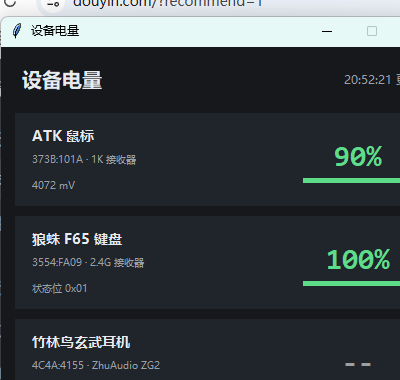
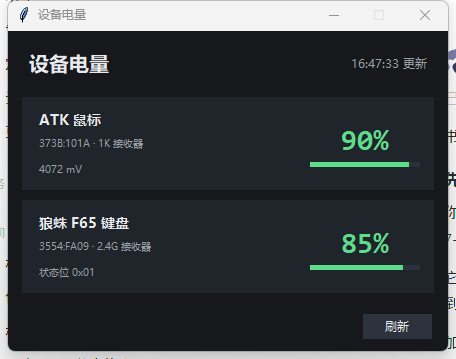
移除玄武耳机（设备无电量通道）；面板改为两张卡片；新增 --show 启动参数

diff --git a/tray_app.py b/tray_app.py
@@ -149,8 +149,30 @@ TRAY = [
     # (uID, key, 名称, 是否带底板)
     (1, "mouse", "ATK 鼠标", False),
     (2, "keyboard", "狼蛛 F65 键盘", True),
-    (3, "headset", "竹林鸟玄武耳机", True),
 ]
+
+
+def instance_running() -> bool:
+    """托盘是否已经在跑（用 OpenMutex，不会创建锁）。"""
+    SYNCHRONIZE = 0x00100000
+    KERNEL32.OpenMutexW.restype = wintypes.HANDLE
+    KERNEL32.OpenMutexW.argtypes = [wintypes.DWORD, wintypes.BOOL, wintypes.LPCWSTR]
+    h = KERNEL32.OpenMutexW(SYNCHRONIZE, False, MUTEX_NAME)
+    if h:
+        KERNEL32.CloseHandle(h)
+        return True
+    return False
+
+
+def spawn_panel() -> None:
+    """另起进程打开面板（打包后是同一个 exe 带 --panel）。"""
+    import subprocess
+    if FROZEN:
+        cmd = [sys.executable, "--panel"]
+    else:
+        cmd = [sys.executable.replace("python.exe", "pythonw.exe"),
+               os.path.join(BASE_DIR, "panel.py")]
+    subprocess.Popen(cmd, cwd=BASE_DIR, creationflags=0x00000008)
 
 
 class TrayApp:
@@ -163,6 +185,7 @@ class TrayApp:
         self.last_good = {}   # key -> (level, charging, voltage, 时间字符串)
         self.icons_added = False
         self.last_update = ""
+        self.show_panel_on_start = False
         self.taskbar_msg = USER32.RegisterWindowMessageW("TaskbarCreated")
 
     def log(self, msg: str) -> None:
@@ -268,10 +291,8 @@ class TrayApp:
             if r.ok and r.level is not None:
                 self.last_good[key] = (r.level, r.charging, r.voltage_mv,
                                        self.last_update)
-        m, k, h = (self.readings["mouse"], self.readings["keyboard"],
-                   self.readings["headset"])
-        self.log(f"刷新完成 鼠标={m.level}/{m.note} 键盘={k.level}/{k.note} "
-                 f"耳机={h.level}/{h.note}")
+        parts = " ".join(f"{k}={r.level}/{r.note}" for k, r in self.readings.items())
+        self.log(f"刷新完成 {parts}")
         self.update_icons()
 
     # ---------------- 菜单 ----------------
@@ -319,15 +340,8 @@ class TrayApp:
             self.log(f"开机自启 -> {ok}")
 
     def open_panel(self) -> None:
-        import subprocess
         try:
-            if FROZEN:
-                subprocess.Popen([sys.executable, "--panel"],
-                                 cwd=BASE_DIR, creationflags=0x00000008)
-            else:
-                subprocess.Popen([sys.executable.replace("python.exe", "pythonw.exe"),
-                                  os.path.join(BASE_DIR, "panel.py")],
-                                 cwd=BASE_DIR, creationflags=0x00000008)
+            spawn_panel()
             self.log("已打开面板")
         except Exception as e:
             self.log(f"打开面板失败：{e}")
@@ -389,6 +403,11 @@ class TrayApp:
         self.add_icons()
         USER32.SetTimer(hwnd, 1, REFRESH_INTERVAL_MS, None)
         self.refresh_now()
+        if self.show_panel_on_start:
+            try:
+                spawn_panel()
+            except Exception:
+                self.log("打开面板失败\n" + traceback.format_exc())
         msg = MSG()
         while USER32.GetMessageW(ctypes.byref(msg), None, 0, 0) > 0:
             USER32.TranslateMessage(ctypes.byref(msg))
@@ -402,6 +421,8 @@ def main() -> int:
     parser.add_argument("--debug", action="store_true", help="前台运行并输出")
     parser.add_argument("--once", action="store_true", help="只打印一次")
     parser.add_argument("--panel", action="store_true", help="只打开面板")
+    parser.add_argument("--show", action="store_true",
+                        help="启动托盘并打开面板；已经在跑就只打开面板")
     parser.add_argument("--autostart", choices=["on", "off", "status"],
                         help="设置/查看开机自启")
     args = parser.parse_args()
@@ -430,6 +451,13 @@ def main() -> int:
                 print(f"{key:9} --    {r.note}")
         return 0
 
+    show_panel = False
+    if args.show:
+        if instance_running():
+            spawn_panel()
+            return 0
+        show_panel = True
+
     KERNEL32.CreateMutexW(None, False, MUTEX_NAME)
     if ctypes.get_last_error() == 183:
         print("托盘已经在运行了（右下角那三个数字图标）")
@@ -441,6 +469,7 @@ def main() -> int:
         pass
 
     app = TrayApp(debug=args.debug)
+    app.show_panel_on_start = show_panel
     try:
         return app.run()
     except Exception:

diff --git a/devices.py b/devices.py
@@ -137,6 +137,12 @@ def read_aula_keyboard() -> Reading:
 
 
 def read_zhu_headset() -> Reading:
+    """竹林鸟玄武：目前只用于诊断，界面不再显示它。
+
+    dongle 只暴露 USB Audio + 一个 3 字节 consumer HID（无 Output/Feature），
+    耳机开/关机时接口集合不变，USB 侧拿不到电量；官方驱动面板也没有电量功能。
+    以后如果官方固件开放厂商通道，再把它加回 read_all()。
+    """
     iface = None
     for d in hidlib.enumerate_hid():
         if d.vid == ZHU_VID and d.pid == ZHU_PID:
@@ -151,7 +157,6 @@ def read_all() -> dict[str, Reading]:
     return {
         "mouse": read_atk_mouse(),
         "keyboard": read_aula_keyboard(),
-        "headset": read_zhu_headset(),
     }
 
 

diff --git a/panel.py b/panel.py
@@ -17,7 +17,6 @@ SUB = "#9aa0a6"
 ITEMS = [
     ("mouse", "ATK 鼠标", "373B:101A · 1K 接收器"),
     ("keyboard", "狼蛛 F65 键盘", "3554:FA09 · 2.4G 接收器"),
-    ("headset", "竹林鸟玄武耳机", "4C4A:4155 · ZhuAudio ZG2"),
 ]
 
 
@@ -36,7 +35,7 @@ class Panel:
         self.root = root
         root.title("设备电量")
         root.configure(bg=BG)
-        root.geometry("440x380")
+        root.geometry("440x320")
         root.resizable(False, False)
 
         self.readings = {}
